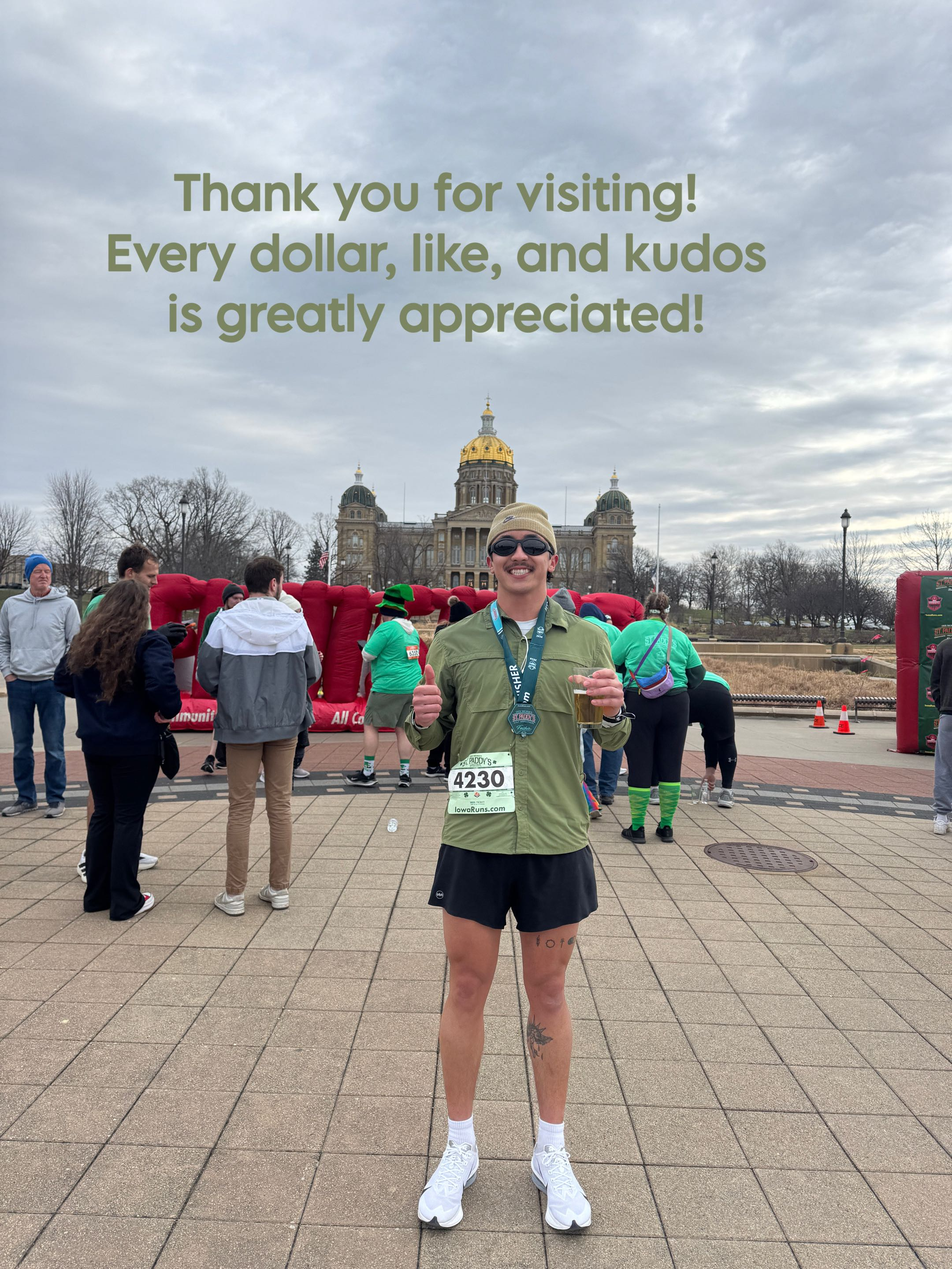
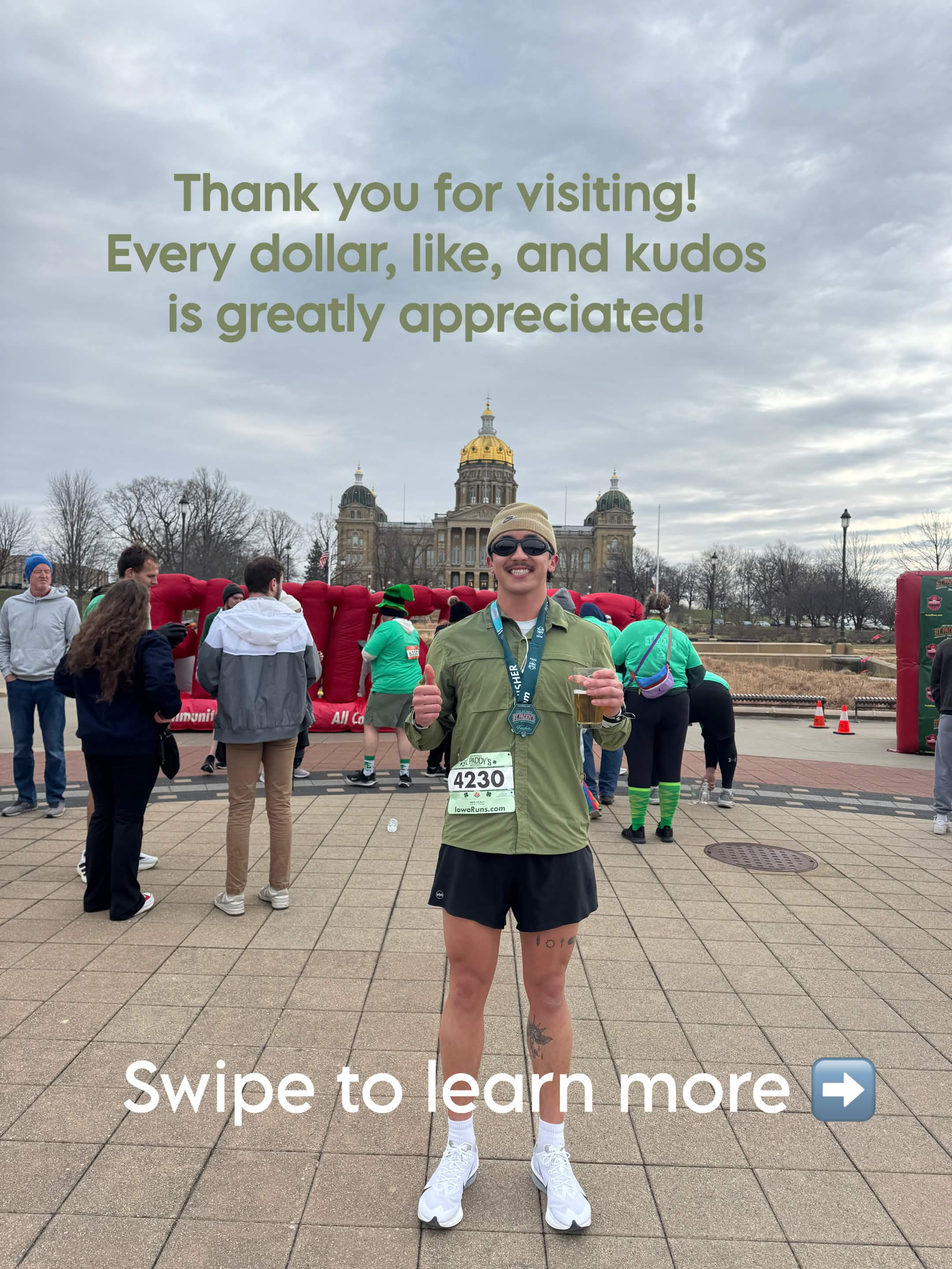
fighting the mobile browser

Changed region(s): [[0.1241, 0.8125, 0.9306, 0.9375], [0.1861, 0.9062, 0.2171, 0.9375], [0.1551, 0.9375, 0.1861, 0.9688]]

diff --git a/js/main.js b/js/main.js
@@ -170,21 +170,7 @@ function setupCarousel() {
     track.scrollTo({ left: target * track.clientWidth, behavior: reduceMotion ? "auto" : "smooth" });
   }
 
-  // On mobile the track is as tall as the slide in view, so a short slide leaves no gap.
-  const desktopQuery = window.matchMedia("(min-width: 70rem)");
-  function fitHeight() {
-    if (desktopQuery.matches) { track.style.height = ""; return; }
-    const slide = visibleSlides()[currentIndex()];
-    if (slide) track.style.height = slide.offsetHeight + "px";
-  }
-  if ("ResizeObserver" in window) {
-    const ro = new ResizeObserver(fitHeight);
-    $$(".slide", track).forEach(s => ro.observe(s));
-  }
-  window.addEventListener("resize", fitHeight);
-
   function update() {
-    fitHeight();
     const i = currentIndex();
     $$(".dot", dots).forEach((d, n) => d.setAttribute("aria-current", n === i ? "true" : "false"));
     prev.disabled = i <= 0;
@@ -217,24 +203,6 @@ function setupCarousel() {
       }
     });
     update();
-  }
-
-  // Auto-advance every 2 seconds and loop. Any interaction stops it for good.
-  let timer = null;
-  function stopAuto() {
-    if (timer) window.clearInterval(timer);
-    timer = null;
-  }
-  if (!reduceMotion) {
-    timer = window.setInterval(() => {
-      const count = visibleSlides().length;
-      if (count < 2) return;
-      const i = currentIndex();
-      goTo(i >= count - 1 ? 0 : i + 1);
-    }, 2000);
-    ["pointerdown", "touchstart", "wheel", "keydown", "focusin"].forEach(evt =>
-      panel.addEventListener(evt, stopAuto, { passive: true })
-    );
   }
 
   prev.addEventListener("click", () => goTo(currentIndex() - 1));

diff --git a/css/styles.css b/css/styles.css
@@ -242,13 +242,25 @@ footer { max-width: 82rem; margin: 0 auto; padding: 1.5rem 1rem 3rem; font-size:
 /* Final section sits on the left edge, in line with the panels. */
 .final { margin: 0; padding-left: 0; padding-right: 0; text-align: left; }
 
-/* ---------- Photo slide (no padding) ---------- */
+/* ---------- Photo slide: fixed, fills the same area as the widget slide ---------- */
 .slide-photo { position: relative; margin: 0; padding: 0; overflow: hidden; background: var(--panel); }
-.slide-photo img { position: absolute; inset: 0; width: 100%; height: 100%; object-fit: contain; }
-@media (max-width: 69.99rem) {
-  /* Mobile: the slide is exactly as tall as the photo. */
-  .slide-photo { overflow: visible; }
-  .slide-photo img { position: static; display: block; width: 100%; height: auto; }
-  /* Each slide keeps its own height. JS sizes the track to the current slide. */
-  .track { align-items: flex-start; }
+.slide-photo img {
+  position: absolute;
+  inset: 0;
+  width: 100%;
+  height: 100%;
+  object-fit: cover;
+  object-position: 50% 30%;
+  pointer-events: none;
+  user-select: none;
+  -webkit-user-select: none;
+  -webkit-user-drag: none;
 }
+@media (max-width: 69.99rem) {
+  /* The slide stretches to the height of the widget slide. */
+  .slide-photo { min-height: 24rem; }
+}
+
+/* The track only moves sideways. */
+.track { overflow-y: hidden; }
+@media (min-width: 70rem) { .track { overflow-y: hidden; } }

diff --git a/index.html b/index.html
@@ -30,7 +30,7 @@
         <div class="track" id="track" tabindex="0">
 
           <figure class="slide slide-photo">
-            <img src="assets/images/photos/image_6742069.jpg" alt="Caden smiling in a race medal and bib, giving a thumbs up in front of the Iowa State Capitol. Text on the photo reads: Thank you for visiting, every dollar, like, or kudos is appreciated!" width="2160" height="2880" decoding="async">
+            <img src="assets/images/photos/image_6742069.jpg" alt="Caden smiling in a race medal and bib, giving a thumbs up in front of the Iowa State Capitol. Text on the photo reads: Thank you for visiting, every dollar, like, or kudos is appreciated!" width="2160" height="2880" decoding="async" draggable="false">
           </figure>
 
           <div class="slide slide-give" id="slide-give">
